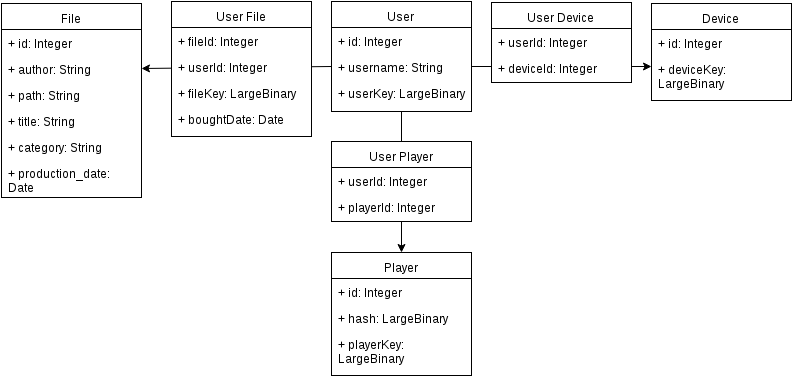
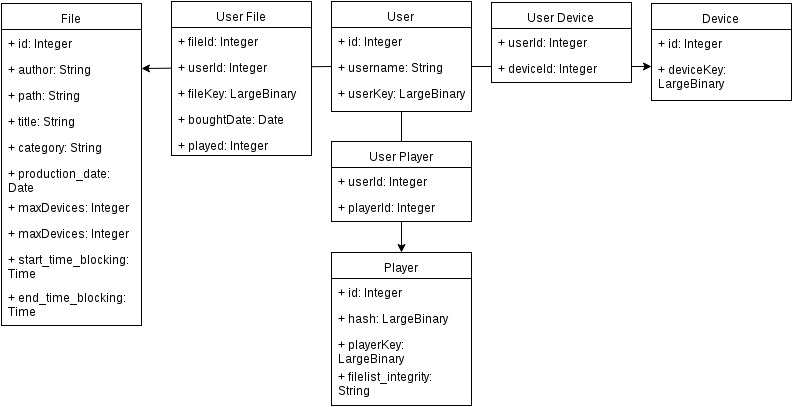
Added images and redid database chapter

diff --git a/report/proj2.tex b/report/proj2.tex
@@ -100,6 +100,14 @@ We then have the required key for each one of them as well.
 \newline In the User table we have added the username field that identifies the each user.
 \newline The File table also has some extra fields that provide information to the user about the file he is playing or buying, such as, the title of the file, the author, the category and the date of the title's production.
 \newline The actions presented in Figure 1.1 had to be converted to extra tables since, in each case we had a many-to-many relationship. So, we have here the extra tables that store some information of the interactions, like specific keys and adittional information like the date that when the user bought the file. 
+\newline Besides the tables presented before, we needed a few more tables to help implement the authorization policies:
+
+\begin{figure}[H]
+\centerline{\includegraphics[width=300pt]{images/auxTables.png}}
+\caption{DB Auxiliary Tables}
+\label{tables}
+\end{figure}
+
 
 \subsection{Technologies used}
 For the database we used:
@@ -139,7 +147,7 @@ It requires the user to log in before proceeding with the titles purchase.
 The same API that the player uses is used here.
 
 \begin{figure}[H]
-\centerline{\includegraphics[width=500pt]{images/webpage.png}}
+\centerline{\includegraphics[width=500pt]{images/webpage.jpg}}
 \caption{Web page interface}
 \label{webpage}
 \end{figure}
@@ -166,7 +174,7 @@ The player implementation we have is made of 3 main files.
 After the user starts the player application, he/she must log in. 
 
 \begin{figure}[H]
-\centerline{\includegraphics[width=300pt]{images/playerLogin.png}}
+\centerline{\includegraphics[width=200pt]{images/playerLogin.jpg}}
 \caption{Login page for the player}
 \label{player}
 \end{figure}
@@ -175,7 +183,7 @@ At this stage, the only information required to perform the login is the usernam
 \newline After the user logs in and it is confirmed by the server, a list of titles is displayed so that the user can choose which one he/she wants to reproduce.
 
 \begin{figure}[H]
-\centerline{\includegraphics[width=300pt]{images/playerLogin.png}}
+\centerline{\includegraphics[width=200pt]{images/playerList.jpg}}
 \caption{Page that lists the files for the user}
 \label{player}
 \end{figure}
@@ -185,7 +193,7 @@ When the user selects the file that he/she wants to play, a thread running the V
 The buffer is managed by the VLC player and is customizable (the user can give the buffer the size it wants by changing the value on the VLC settings).
 
 \begin{figure}[H]
-\centerline{\includegraphics[width=300pt]{images/playerLogin.png}}
+\centerline{\includegraphics[width=200pt]{images/playerLogin.png}}
 \caption{Video playing in the VLC thread}
 \label{player}
 \end{figure}
